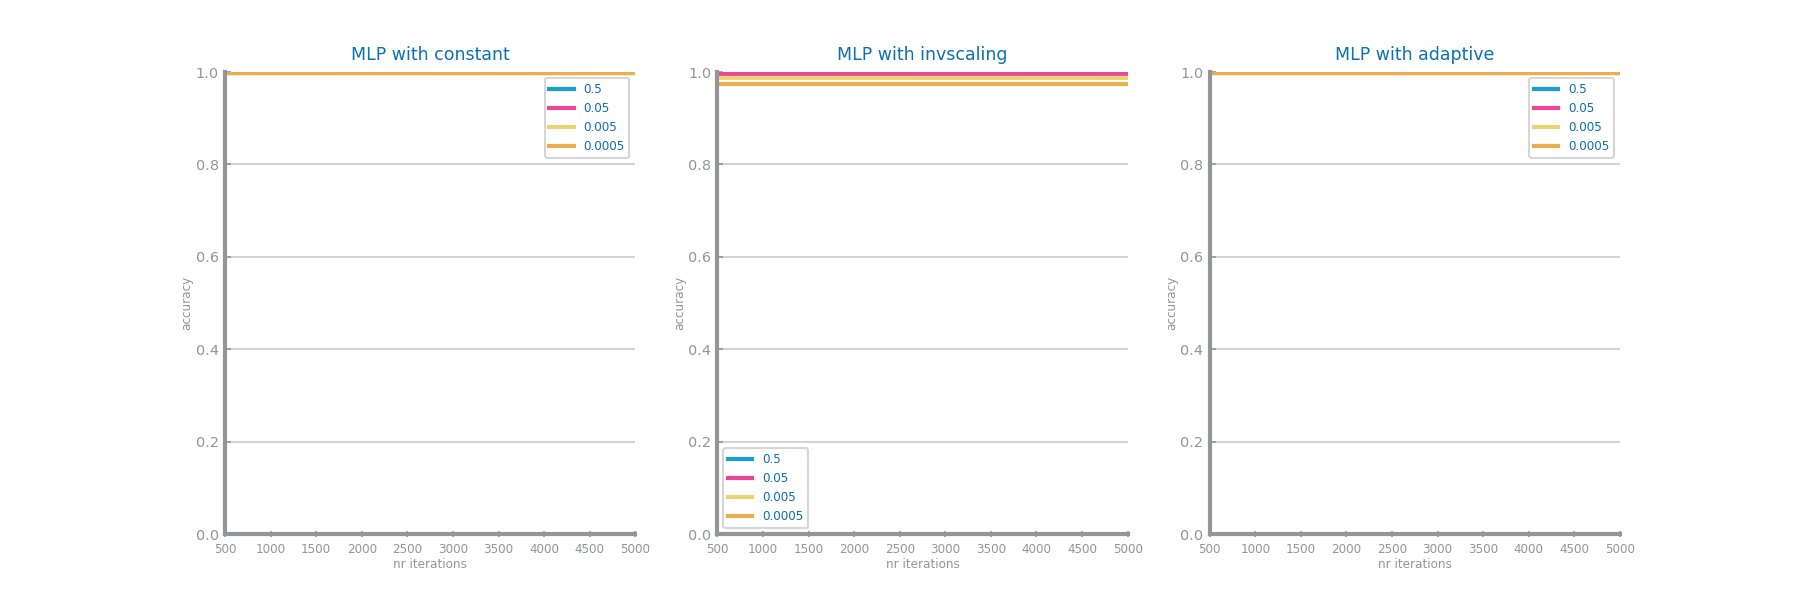
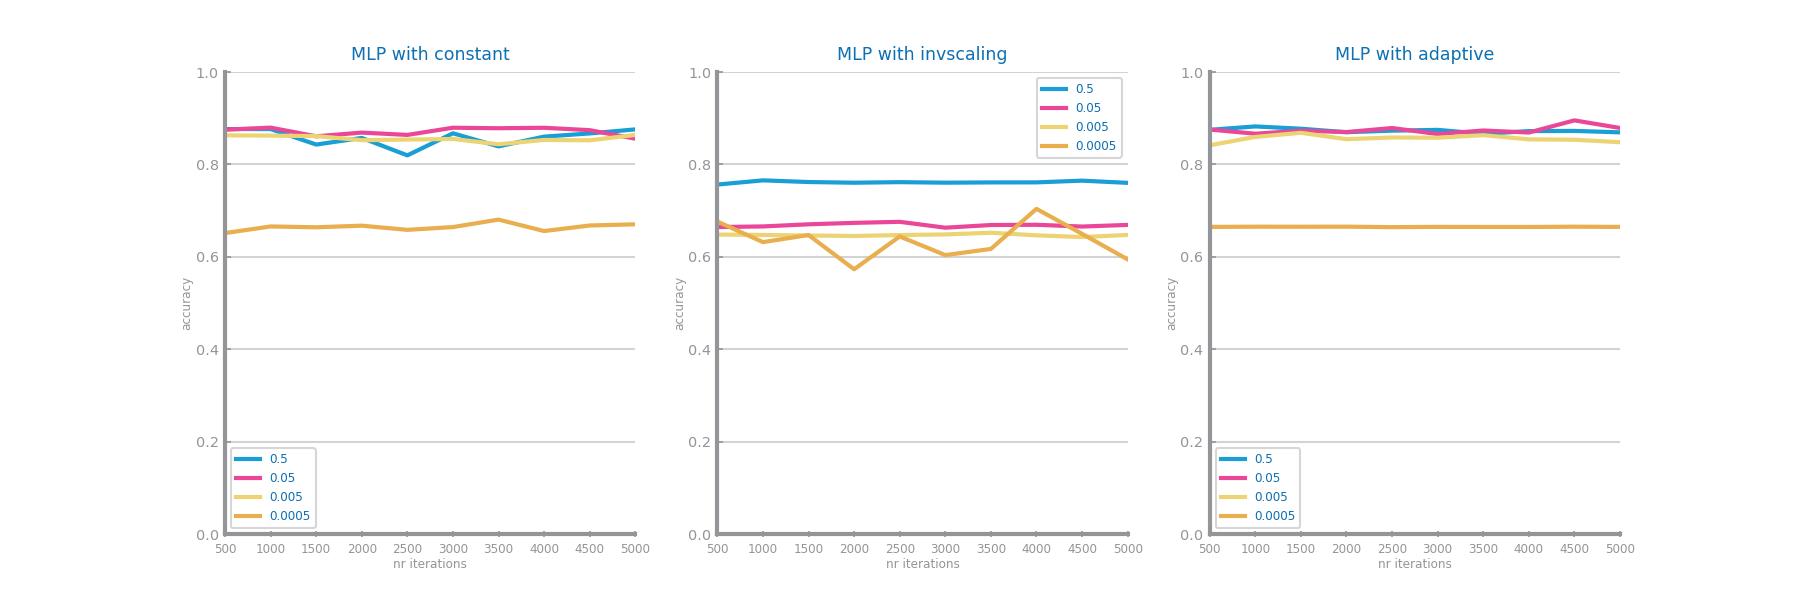
Add old and new images of Classification

diff --git a/Data_Preparation/processing_balancing_security.py b/Data_Preparation/processing_balancing_security.py
@@ -6,53 +6,53 @@ from pandas import Series
 from imblearn.over_sampling import SMOTE
 
 file_tag = "class_ny_arrests"
-filename = f"Data/Scaling/train_{file_tag}_scaled_zscore_run6.csv"
+filename = f"Data/train_{file_tag}_scaled_zscore.csv"
 target = "CLASS"
 original: DataFrame = read_csv(filename, sep=",", decimal=".")
 
 target_count: Series = original[target].value_counts()
 positive_class = target_count.idxmin()
 negative_class = target_count.idxmax()
-
-print("Minority class=", positive_class, ":", target_count[positive_class])
-print("Majority class=", negative_class, ":", target_count[negative_class])
-print(
-    "Proportion:",
-    round(target_count[positive_class] / target_count[negative_class], 2),
-    ": 1",
-)
-values: dict[str, list] = {
-    "Original": [target_count[positive_class], target_count[negative_class]]
-}
-figure()
-plot_bar_chart(
-    target_count.index.to_list(), target_count.to_list(), title="Class balance"
-)
-savefig(f"./{file_tag}_class_balance.png")
-show()
-
-"apply oversampling"
-df_positives: Series = original[original[target] == positive_class]
-df_negatives: Series = original[original[target] == negative_class]
-
-df_pos_sample: DataFrame = DataFrame(
-    df_positives.sample(len(df_negatives), replace=True)
-)
-df_over: DataFrame = concat([df_pos_sample, df_negatives], axis=0)
-df_over.to_csv(f"Data/{file_tag}_oversampling.csv", index=False)
-
-print("Minority class=", positive_class, ":", len(df_pos_sample))
-print("Majority class=", negative_class, ":", len(df_negatives))
-print("Proportion:", round(len(df_pos_sample) / len(df_negatives), 2), ": 1")
-
-"apply undersampling"
-df_neg_sample: DataFrame = DataFrame(df_negatives.sample(len(df_positives)))
-df_under: DataFrame = concat([df_positives, df_neg_sample], axis=0)
-df_under.to_csv(f"Data/{file_tag}_under.csv", index=False)
-
-print("Minority class=", positive_class, ":", len(df_positives))
-print("Majority class=", negative_class, ":", len(df_neg_sample))
-print("Proportion:", round(len(df_positives) / len(df_neg_sample), 2), ": 1")
+#
+#print("Minority class=", positive_class, ":", target_count[positive_class])
+#print("Majority class=", negative_class, ":", target_count[negative_class])
+#print(
+#    "Proportion:",
+#    round(target_count[positive_class] / target_count[negative_class], 2),
+#    ": 1",
+#)
+#values: dict[str, list] = {
+#    "Original": [target_count[positive_class], target_count[negative_class]]
+#}
+#figure()
+#plot_bar_chart(
+#    target_count.index.to_list(), target_count.to_list(), title="Class balance"
+#)
+#savefig(f"./{file_tag}_class_balance.png")
+#show()
+#
+#"apply oversampling"
+#df_positives: Series = original[original[target] == positive_class]
+#df_negatives: Series = original[original[target] == negative_class]
+#
+#df_pos_sample: DataFrame = DataFrame(
+#    df_positives.sample(len(df_negatives), replace=True)
+#)
+#df_over: DataFrame = concat([df_pos_sample, df_negatives], axis=0)
+#df_over.to_csv(f"Data/{file_tag}_oversampling.csv", index=False)
+#
+#print("Minority class=", positive_class, ":", len(df_pos_sample))
+#print("Majority class=", negative_class, ":", len(df_negatives))
+#print("Proportion:", round(len(df_pos_sample) / len(df_negatives), 2), ": 1")
+#
+#"apply undersampling"
+#df_neg_sample: DataFrame = DataFrame(df_negatives.sample(len(df_positives)))
+#df_under: DataFrame = concat([df_positives, df_neg_sample], axis=0)
+#df_under.to_csv(f"Data/{file_tag}_under.csv", index=False)
+#
+#print("Minority class=", positive_class, ":", len(df_positives))
+#print("Majority class=", negative_class, ":", len(df_neg_sample))
+#print("Proportion:", round(len(df_positives) / len(df_neg_sample), 2), ": 1")
 
 #
 #"""SMOTE"""

diff --git a/Data_Preparation/generating_tests.py b/Data_Preparation/generating_tests.py
@@ -5,7 +5,10 @@ from sklearn.model_selection import train_test_split
 method_tag = "scaled_zscore" 
 file_tag = "class_ny_arrests"
 filename = f"Data/{file_tag}_{method_tag}.csv"  # Replace with your dataset's filename
-data = pd.read_csv(filename, na_values="", index_col="ARREST_KEY")
+data = pd.read_csv(filename, na_values="", index_col=None)
+
+#drop column JURISDICTION_CODE
+data = data.drop(columns=["JURISDICTION_CODE"])
 
 #for i in range(0, 10):
 #   print("Generating split number:", i)
@@ -31,7 +34,7 @@ data = pd.read_csv(filename, na_values="", index_col="ARREST_KEY")
     #
     #data.to_csv(filename, index=False)
     
-to_keep = data.sample(frac = 0.2)
+to_keep = data.sample(frac = 0.05)
 
 train_data, test_data = train_test_split(to_keep, test_size=0.3, random_state=42)
 

diff --git a/Classification/processing_RF_security.py b/Classification/processing_RF_security.py
@@ -65,7 +65,7 @@ def random_forests_study(
 
 
 file_tag = "class_ny_arrests"
-train_filename = f"Data/train_{file_tag}_scaled_zscore.csv"
+train_filename = f"Data/{file_tag}_smote.csv"
 test_filename = f"Data/test_{file_tag}_scaled_zscore.csv"
 target = "CLASS"
 eval_metric = "accuracy"

diff --git a/Classification/processing_MLP_security.py b/Classification/processing_MLP_security.py
@@ -85,7 +85,7 @@ def mlp_study(
 
 
 file_tag = "class_ny_arrests"
-train_filename = f"Data/train_{file_tag}_scaled_zscore.csv"
+train_filename = f"Data/{file_tag}_smote.csv"
 test_filename = f"Data/test_{file_tag}_scaled_zscore.csv"
 target = "CLASS"
 eval_metric = "accuracy"
